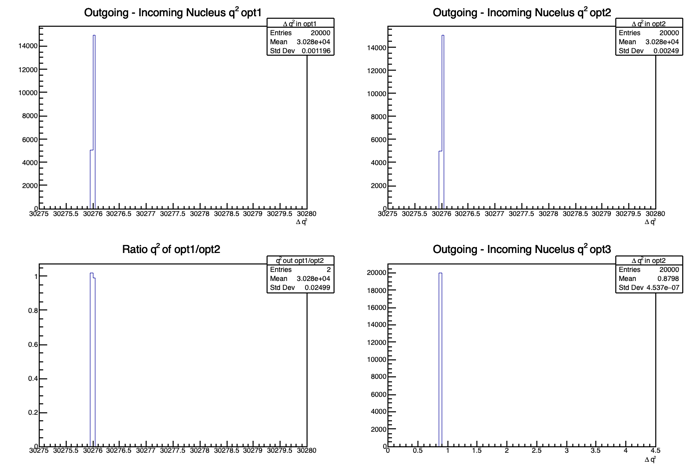
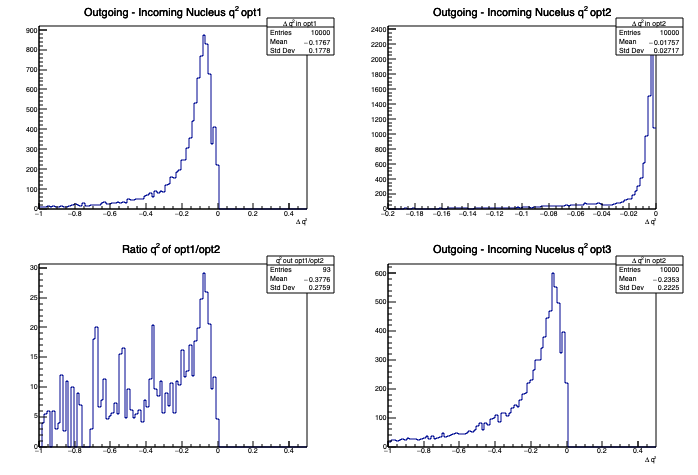
fixed bug in event tagging - its a quick fix, need to add in event number to reader

diff --git a/compare4mom_opt123_nuc.py b/compare4mom_opt123_nuc.py
@@ -11,47 +11,64 @@ electrons03=data03.getParticlesByIDs([9000002,-9000002])
 
 c=TCanvas()
 c.Divide(2,2)
-hist_4mom_diff_opt1=TH1F("#Delta q^{2} in opt1", "Outgoing - Incoming Nucleus q^{2} opt1", 100,30275,30280)
-hist_4mom_diff_opt2=TH1F("#Delta q^{2} in opt2", "Outgoing - Incoming Nucelus q^{2} opt2", 100,30275,30280)
-hist_4mom_diff_opt3=TH1F("#Delta q^{2} in opt2", "Outgoing - Incoming Nucelus q^{2} opt3", 100,0,4.5)
-hist_4momRatio=TH1F("q^{2} out opt1/opt2", "Ratio q^{2} of opt1/opt2 ", 100,30275,30280)
+hist_4mom_diff_opt1=TH1F("#Delta q^{2} in opt1", "Outgoing - Incoming Nucleus q^{2} opt1", 100,-1,0.5)
+hist_4mom_diff_opt2=TH1F("#Delta q^{2} in opt2", "Outgoing - Incoming Nucelus q^{2} opt2", 100,-0.2,0)
+hist_4mom_diff_opt3=TH1F("#Delta q^{2} in opt2", "Outgoing - Incoming Nucelus q^{2} opt3", 100,-1,0.5)
+hist_4momRatio=TH1F("q^{2} out opt1/opt2", "Ratio q^{2} of opt1/opt2 ", 100,-1,0.5)
+incoming_values_p_opt1 = []
+outgoing_values_p_opt1 = []
+incoming_values_p_opt2 = []
+outgoing_values_p_opt2 = []
+outgoing_values_p_opt3 = []
+incoming_values_p_opt3 = []
 
-for e in electrons01:
+for i, e in enumerate(electrons01):
     incoming = TLorentzVector()
     outgoing = TLorentzVector()
 
     if e.status is -1 :
         incoming.SetPxPyPzE(e.px,e.py,e.pz,e.energy)
-
+        incoming_values_p_opt1.append(incoming)
     if e.status is 1:
         outgoing.SetPxPyPzE(e.px,e.py,e.pz,e.energy)
+        outgoing_values_p_opt1.append(outgoing)
 
-    q2 = (outgoing - incoming).M2()
-    print(q2)
-    hist_4mom_diff_opt1.Fill(q2)
+for j, event in enumerate(incoming_values_p_opt1):
+    qdiff = TLorentzVector()
+    qdiff = outgoing_values_p_opt1[j] - incoming_values_p_opt1[j]
+    hist_4mom_diff_opt1.Fill(qdiff.M2())
 
-for e in electrons02:
+for i, e in enumerate(electrons02):
     incoming = TLorentzVector()
     outgoing = TLorentzVector()
+
     if e.status is -1 :
         incoming.SetPxPyPzE(e.px,e.py,e.pz,e.energy)
-
+        incoming_values_p_opt2.append(incoming)
     if e.status is 1:
         outgoing.SetPxPyPzE(e.px,e.py,e.pz,e.energy)
-    q2 = (outgoing - incoming).M2()
-    hist_4mom_diff_opt2.Fill(q2)
+        outgoing_values_p_opt2.append(outgoing)
 
-for e in electrons03:
+for j, event in enumerate(incoming_values_p_opt2):
+    qdiff = TLorentzVector()
+    qdiff = outgoing_values_p_opt2[j] - incoming_values_p_opt2[j]
+    hist_4mom_diff_opt2.Fill(qdiff.M2())
+
+for i, e in enumerate(electrons03):
     incoming = TLorentzVector()
     outgoing = TLorentzVector()
+
     if e.status is -1 :
         incoming.SetPxPyPzE(e.px,e.py,e.pz,e.energy)
+        incoming_values_p_opt3.append(incoming)
     if e.status is 1:
         outgoing.SetPxPyPzE(e.px,e.py,e.pz,e.energy)
-    q2 = (outgoing - incoming).M2()
-    sigma = 6.4e4
-    hist_4mom_diff_opt3.Fill(q2)
+        outgoing_values_p_opt3.append(outgoing)
 
+for j, event in enumerate(incoming_values_p_opt3):
+    qdiff = TLorentzVector()
+    qdiff = outgoing_values_p_opt3[j] - incoming_values_p_opt3[j]
+    hist_4mom_diff_opt3.Fill(qdiff.M2())
 
 c.cd(1)
 hist_4mom_diff_opt1.GetXaxis().SetTitle("#Delta q^{2}")
